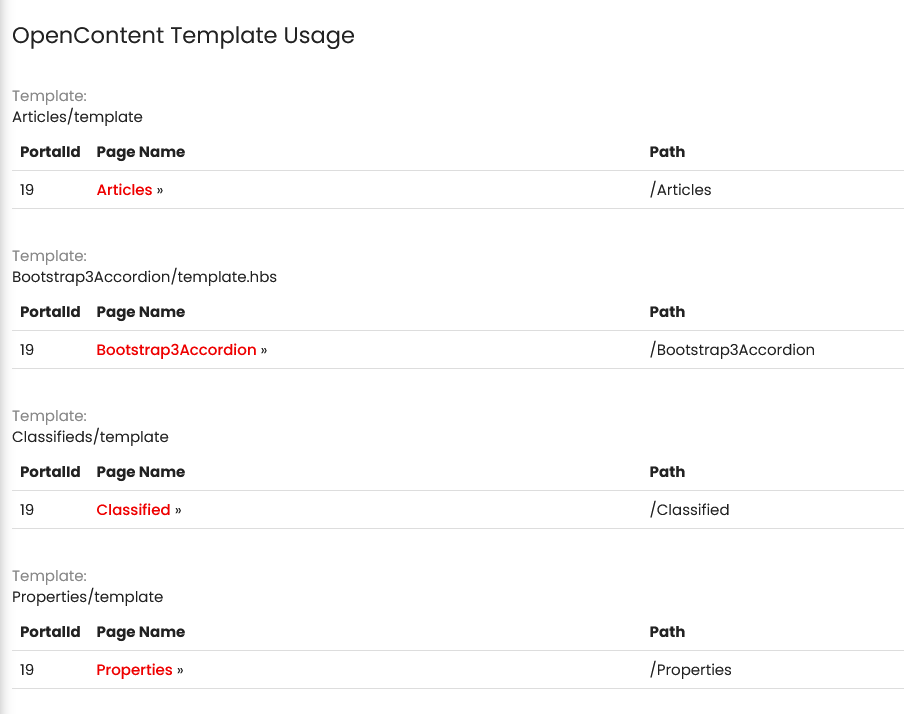
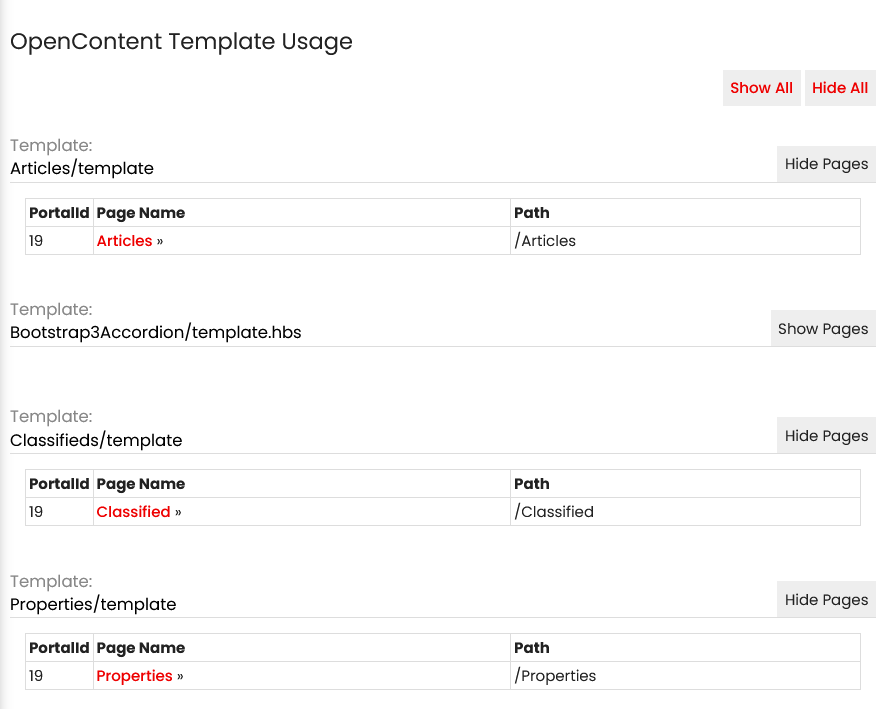
You can now show and or hide the pages a Template is used on

diff --git a/Template-Usage/js/accordion.js b/Template-Usage/js/accordion.js
@@ -1,0 +1,148 @@
+(function () {
+    // === CONFIGURATION ===
+    const triggerClass = 'oc-accordion-trigger';
+    const contentClass = 'oc-accordion-content';
+    const openClass = 'oc-open';
+    const closedClass = 'oc-closed';
+    const cookieName = 'ff-oc-accordionState';
+
+    // === COOKIE HANDLING ===
+    function setCookie(name, value, days = 90) {
+        const expires = new Date(Date.now() + days * 864e5).toUTCString();
+        document.cookie = name + '=' + encodeURIComponent(value) + '; expires=' + expires + '; path=/';
+    }
+
+    function getCookie(name) {
+        return document.cookie.split('; ').reduce((r, v) => {
+            const parts = v.split('=');
+            return parts[0] === name ? decodeURIComponent(parts[1]) : r;
+        }, '');
+    }
+
+    function saveState(states) {
+        setCookie(cookieName, JSON.stringify(states));
+    }
+
+    function loadState() {
+        try {
+            const cookieValue = getCookie(cookieName);
+            console.log('Loaded cookie:', cookieValue); // Debugging: Check cookie content
+            return JSON.parse(cookieValue) || {};
+        } catch (e) {
+            console.error('Error parsing cookie:', e);
+            return {};
+        }
+    }
+
+    // === OPEN ALL / CLOSE ALL FUNCTIONS ===
+    function toggleAllAccordions(open) {
+        const triggers = document.querySelectorAll(`.${triggerClass}`);
+        const state = {};
+
+        triggers.forEach(trigger => {
+            const selector = trigger.getAttribute('data-selector');
+            const content = selector ? document.querySelector(selector) : null;
+            if (!content) return;
+
+            const id = trigger.id;
+
+            if (open) {
+                trigger.classList.add(openClass);
+                trigger.classList.remove(closedClass);
+                content.classList.add(openClass);
+                content.classList.remove(closedClass);
+                content.style.maxHeight = content.scrollHeight + 'px';
+                content.style.overflow = 'hidden';
+                state[id] = 'open';
+            } else {
+                trigger.classList.add(closedClass);
+                trigger.classList.remove(openClass);
+                content.classList.add(closedClass);
+                content.classList.remove(openClass);
+                content.style.maxHeight = '0px';
+                content.style.overflow = 'hidden';
+                state[id] = 'closed';
+            }
+        });
+
+        // Save the updated state to the cookie
+        saveState(state);
+    }
+
+    // === INIT FUNCTION ===
+    function initAccordion() {
+        const triggers = document.querySelectorAll(`.${triggerClass}`);
+        const state = loadState();
+
+        triggers.forEach((trigger, index) => {
+            const selector = trigger.getAttribute('data-selector');
+            const content = selector ? document.querySelector(selector) : null;
+            if (!content || !content.classList.contains(contentClass)) return;
+
+            const id = trigger.id || `accordion-${index}`;
+            trigger.id = id;
+
+            // Restore saved state or use existing HTML classes
+            const saved = state[id];
+            if (saved === 'open' || saved === 'closed') {
+                trigger.classList.remove(openClass, closedClass);
+                content.classList.remove(openClass, closedClass);
+
+                if (saved === 'open') {
+                    trigger.classList.add(openClass);
+                    content.classList.add(openClass);
+                    content.style.maxHeight = content.scrollHeight + 'px';
+                    content.style.overflow = 'hidden';
+                } else {
+                    trigger.classList.add(closedClass);
+                    content.classList.add(closedClass);
+                    content.style.maxHeight = '0px';
+                    content.style.overflow = 'hidden';
+                }
+            }
+
+            // Click handler
+            trigger.addEventListener('click', function () {
+                const isOpen = content.classList.contains(openClass);
+
+                if (isOpen) {
+                    content.style.maxHeight = content.scrollHeight + 'px'; // ensure it's set before collapsing
+                    requestAnimationFrame(() => {
+                        content.style.maxHeight = '0px';
+                    });
+                } else {
+                    content.style.maxHeight = content.scrollHeight + 'px';
+                }
+
+                // Toggle classes
+                trigger.classList.toggle(openClass, !isOpen);
+                trigger.classList.toggle(closedClass, isOpen);
+                content.classList.toggle(openClass, !isOpen);
+                content.classList.toggle(closedClass, isOpen);
+
+                // Save new state
+                state[id] = isOpen ? 'closed' : 'open';
+                saveState(state);
+            });
+        });
+
+        // Add event listeners for "Open All" and "Close All" buttons
+        const openAllButton = document.getElementById('oc-open-all');
+        const closeAllButton = document.getElementById('oc-close-all');
+
+        if (openAllButton) {
+            openAllButton.addEventListener('click', function () {
+                toggleAllAccordions(true);
+            });
+        }
+
+        if (closeAllButton) {
+            closeAllButton.addEventListener('click', function () {
+                toggleAllAccordions(false);
+            });
+        }
+    }
+
+    // Expose globally
+    window.initAccordion = initAccordion;
+})();

diff --git a/Template-Usage/template.css b/Template-Usage/template.css
@@ -1,37 +1,113 @@
-.DnnModule-OpenContent .oc-template-list table{
-	border-collapse:collapse;
-	width: 100%;
-	
+/* Define CSS variables inside .oc-template-list for isolation */
+.oc-template-list {
+    --color-border: #ddd;
+    --color-background: #eee;
+    --color-title: #888;
+    --color-text: black;
+
+    --padding-cell: 0.5rem;
+    --padding-buttons: 0.5em;
+    --padding-accordion: 1em;
+
+    --font-size-title: 1em;
+    --line-height-title: 120%;
+
+    --transition-speed: 0.4s;
+    --accordion-max-height: 1000px;
 }
 
-.DnnModule-OpenContent .oc-template-list .oc-template-title{
-	margin: 2.5em 0 0.5em;
-	line-height: 120%;
-	font-size: 1em;
+/* General styles for the template list */
+.oc-template-list table {
+    border-collapse: collapse;
+    width: 100%;
 }
 
-.DnnModule-OpenContent .oc-template-list .oc-template-title .oc-title{
-	color: #888;
-	display:block;
-	margin-bottom: 0.2em;
+.oc-template-list .buttons {
+    padding-bottom: var(--padding-buttons);
+    text-align: right;
 }
 
-.DnnModule-OpenContent .oc-template-list th{
-	font-weight:bold;
+.oc-template-list .btn {
+    cursor: pointer;
+    background: var(--color-background);
+    padding: var(--padding-buttons);
 }
 
-.DnnModule-OpenContent .oc-template-list .col-portal{
-	width: 4em;
+/* Wrapper styles */
+.oc-template-list .oc-template-wrapper {
+    margin: 2em 0 3em;
 }
 
-.DnnModule-OpenContent .oc-template-list .col-page{
-	width: 50%;
+/* Header styles */
+.oc-template-list .oc-template-header {
+    display: flex;
+    border-bottom: solid 1px var(--color-border);
+    align-items: flex-end;
+    margin-bottom: 1em;
 }
 
-.DnnModule-OpenContent .oc-template-list th, 
-.DnnModule-OpenContent .oc-template-list td{
-	padding:0.5rem;
-	text-align:left;
-	border: none;
-	border-bottom: solid 1px #ddd;
+.oc-template-list .oc-template-title {
+    flex-grow: 1;
+    margin: 0;
+    line-height: var(--line-height-title);
+    font-size: var(--font-size-title);
+}
+
+.oc-template-list .oc-template-title .oc-title {
+    color: var(--color-title);
+    display: block;
+    margin: 0;
+}
+
+.oc-template-list .oc-template-name {
+    color: var(--color-text);
+    display: block;
+    margin: 0.4em 0;
+}
+
+/* Table styles */
+.oc-template-list th,
+.oc-template-list td {
+    padding: var(--padding-cell);
+    text-align: left;
+    border: none;
+    border-bottom: solid 1px var(--color-border);
+}
+
+.oc-template-list th {
+    font-weight: bold;
+}
+
+.oc-template-list .col-portal {
+    width: 4em;
+}
+
+.oc-template-list .col-page {
+    width: 50%;
+}
+
+/* Accordion trigger styles */
+.oc-template-list .oc-accordion-trigger.oc-open .oc-show-text {
+    display: none;
+}
+
+.oc-template-list .oc-accordion-trigger.oc-closed .oc-hide-text {
+    display: none;
+}
+
+/* Accordion content styles */
+.oc-template-list .oc-accordion-content {
+    transition: max-height var(--transition-speed) ease, opacity var(--transition-speed) ease;
+    overflow: hidden;
+    padding: 0 var(--padding-accordion);
+}
+
+.oc-template-list .oc-accordion-content.oc-acc-open {
+    opacity: 1;
+    max-height: var(--accordion-max-height); /* fallback if JS doesn't set it */
+}
+
+.oc-template-list .oc-accordion-content.oc-acc-closed {
+    opacity: 0;
+    max-height: 0;
 }
